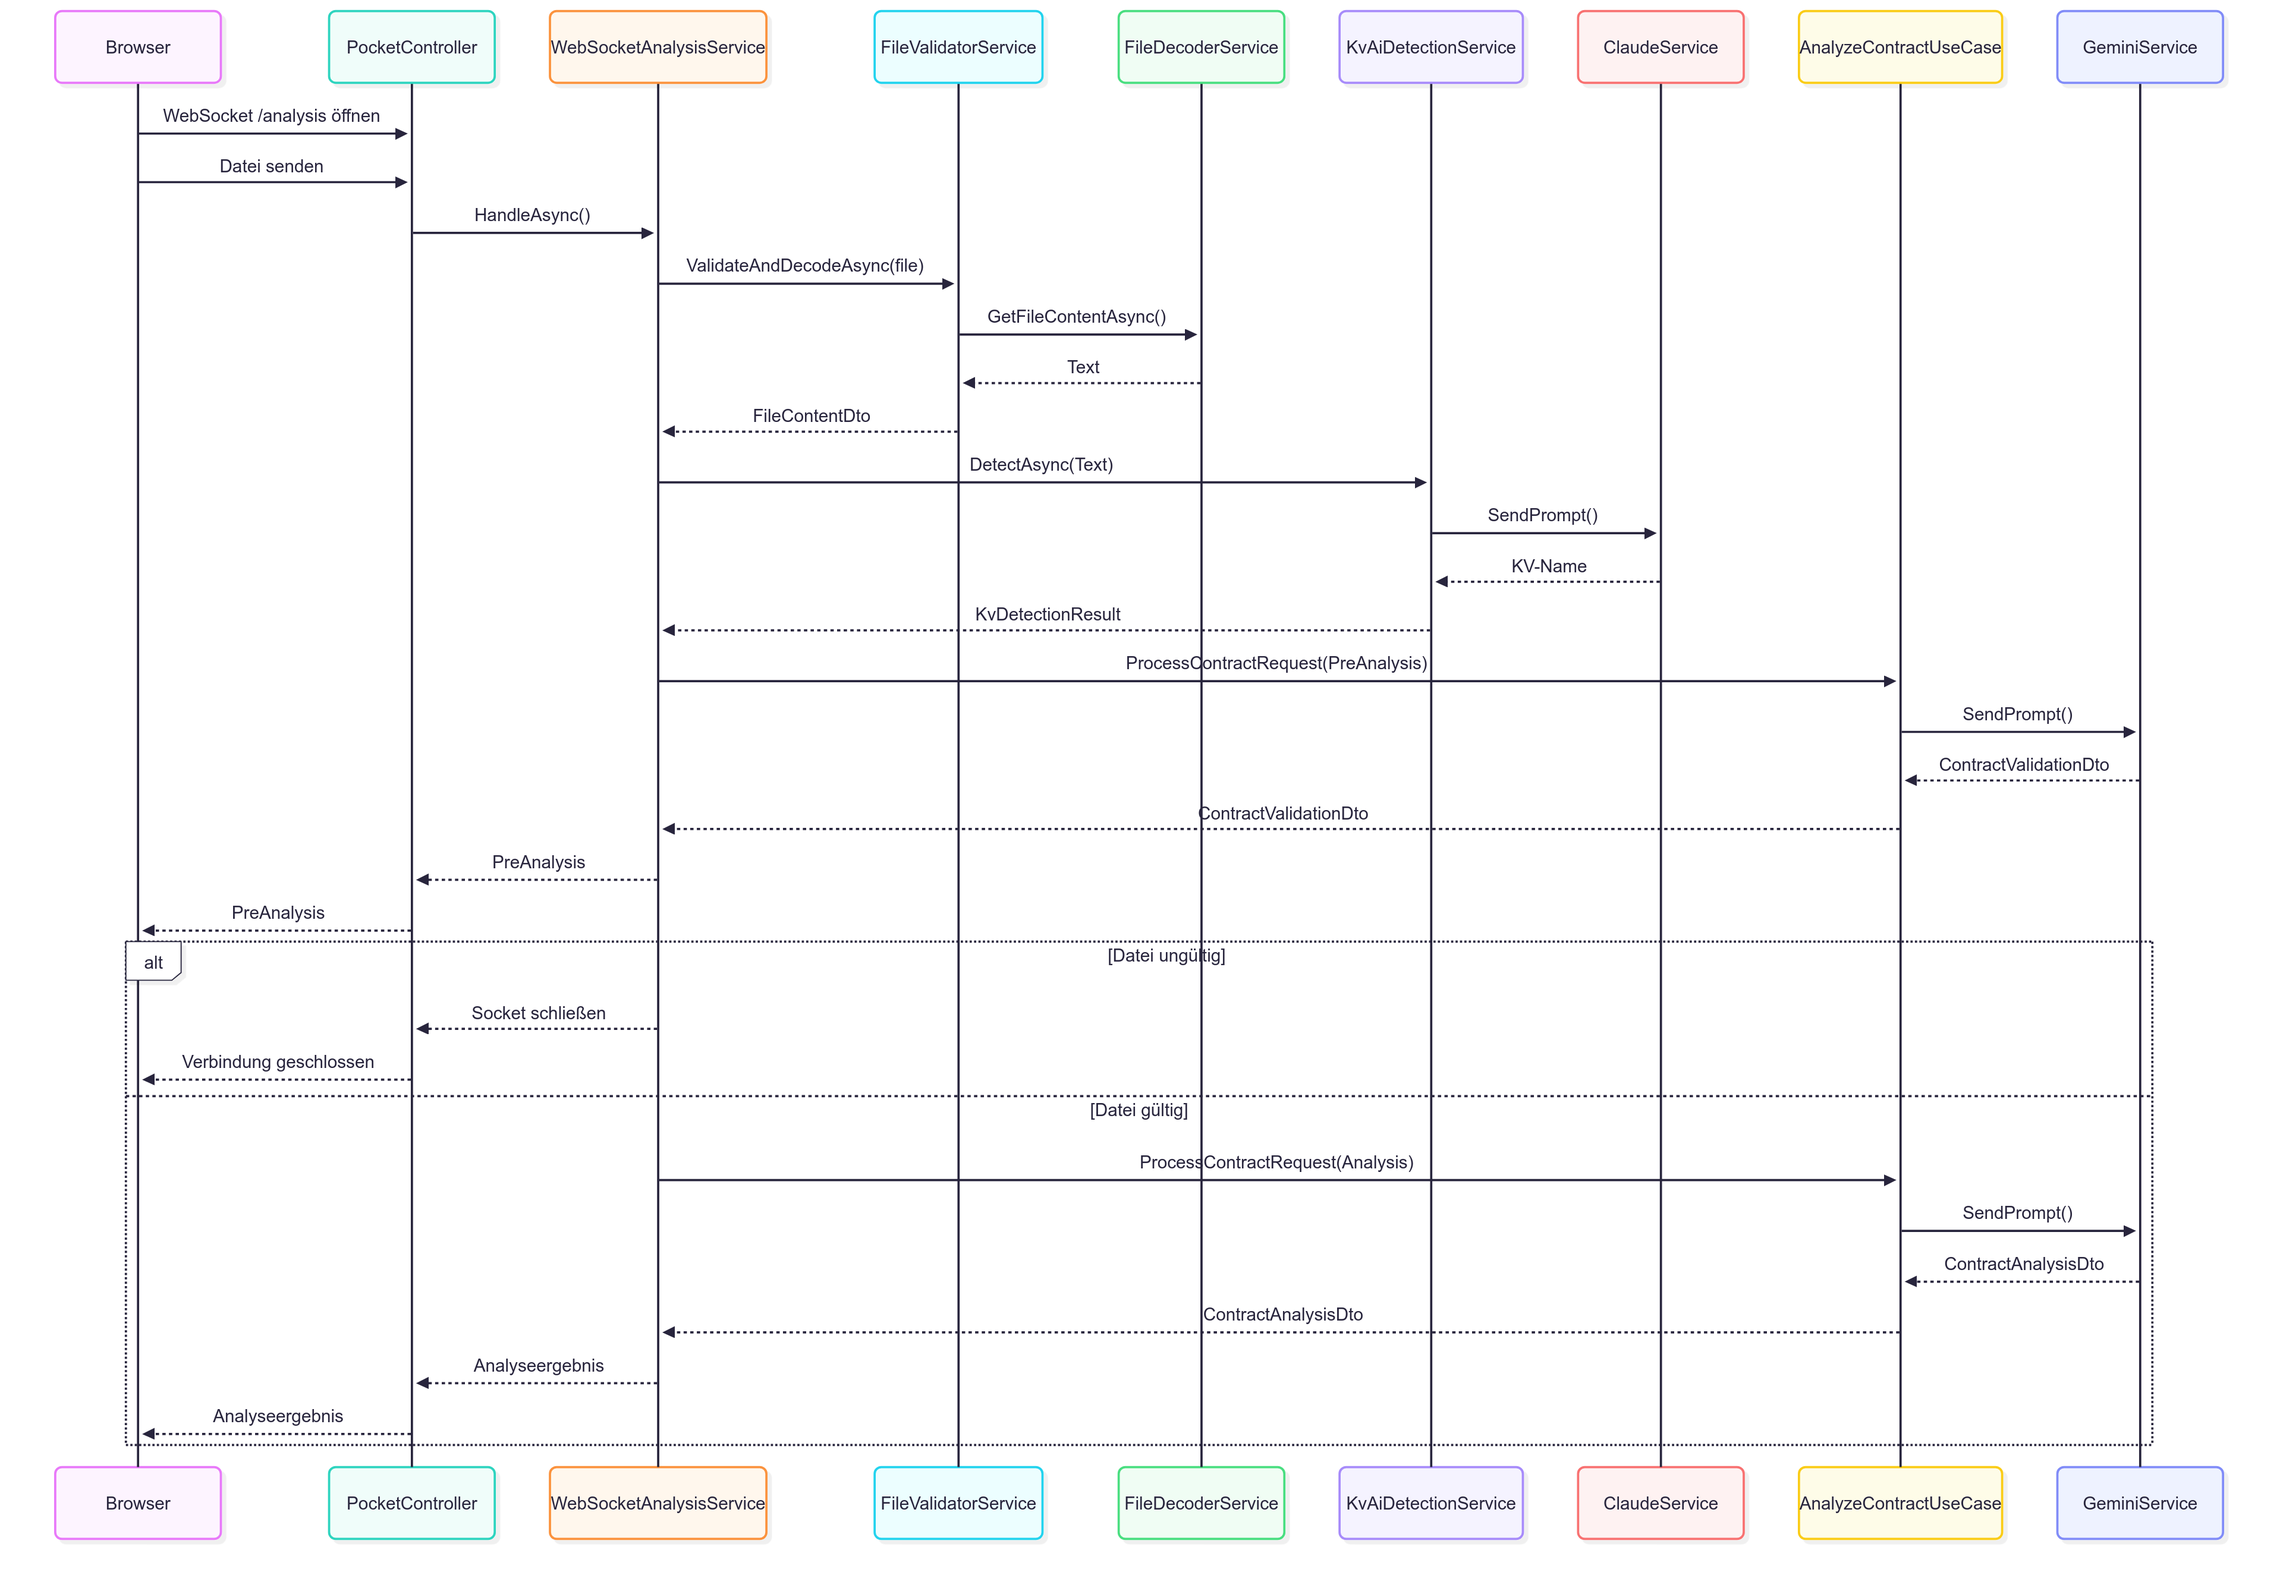
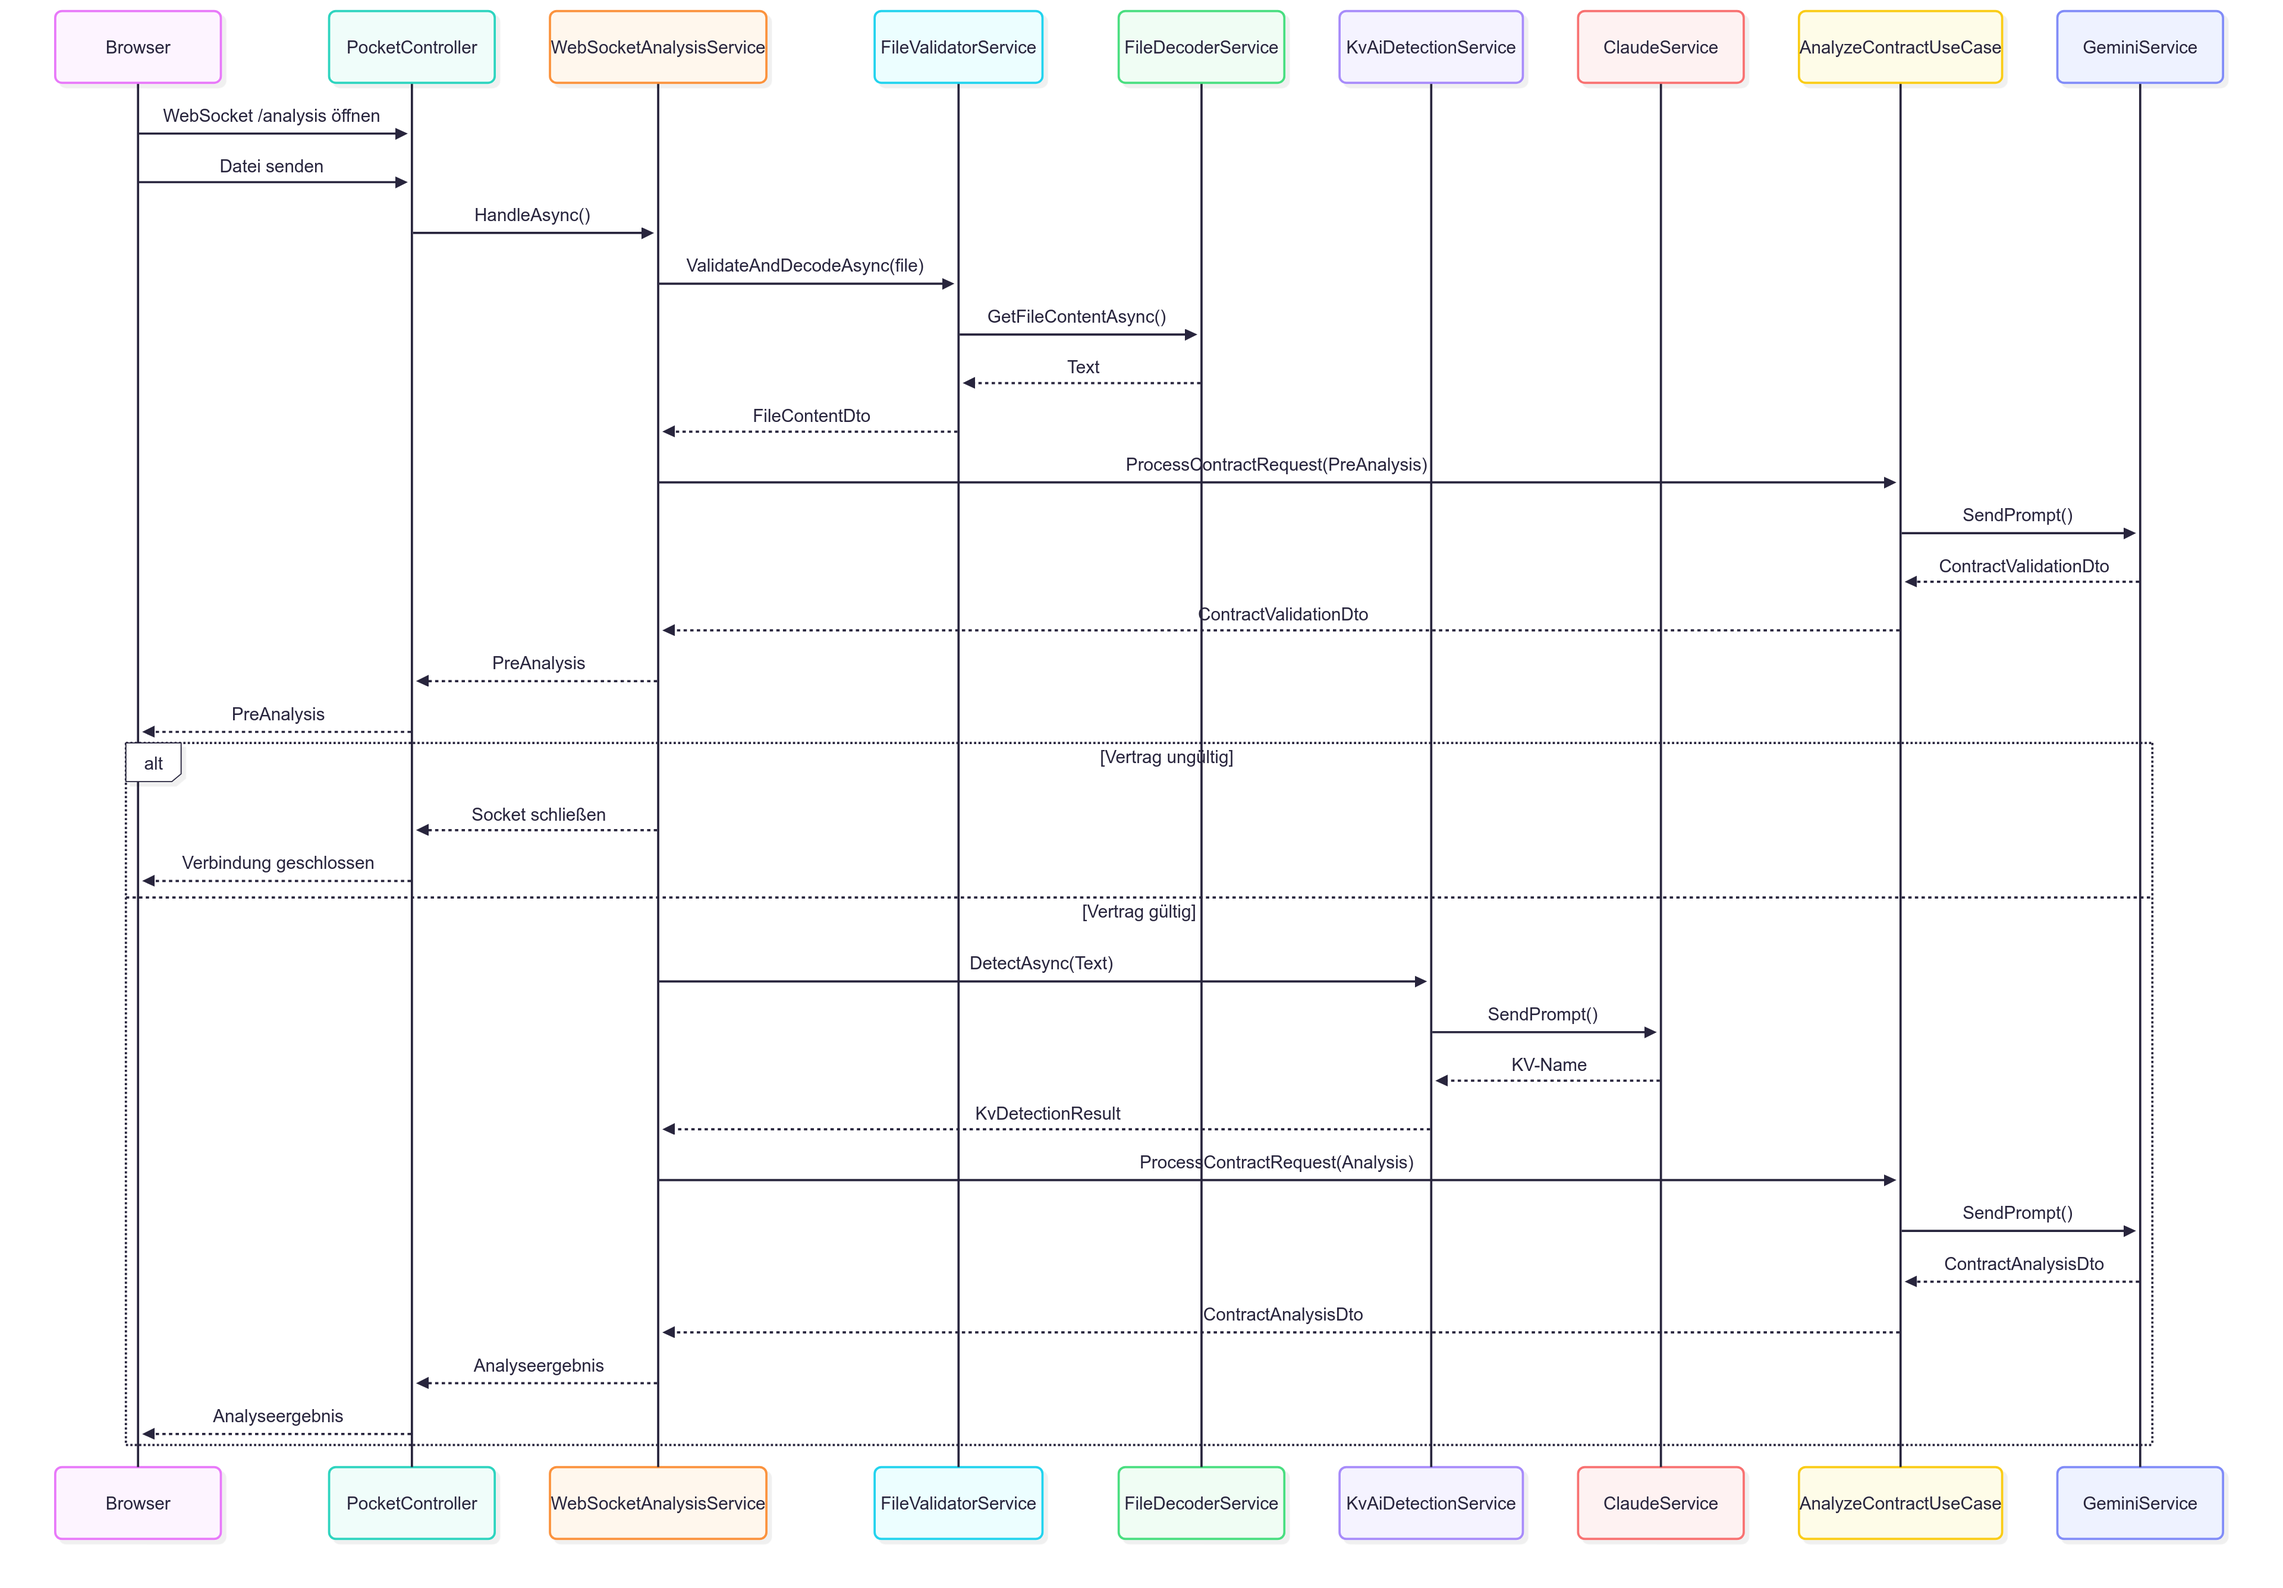
digarams

diff --git a/Infrastructure/WebSocketAnalysisService.cs b/Infrastructure/WebSocketAnalysisService.cs
@@ -37,7 +37,7 @@ public class WebSocketAnalysisService : IWebSocketAnalysisService
             var (bytes, name) = await ReceiveFileAsync(socket);
             IFormFile CreateFile() => new FormFile(new MemoryStream(bytes), 0, bytes.Length, "file", name);
             FileContentDto content = await _fileValidatorService.ValidateAndDecodeAsync(CreateFile());
-            ContractValidationDto validation = await ValidateContractAsync(content, null);
+            ContractValidationDto validation = await ValidateContractAsync(content);
             await WebSocketHelpers.SendStringAsync(socket, JsonSerializer.Serialize(validation), CancellationToken.None);
             if (!validation.IsReadable || !validation.IsContract)
             {
@@ -113,15 +113,14 @@ public class WebSocketAnalysisService : IWebSocketAnalysisService
         return null;
     }
 
-    private Task<ContractValidationDto> ValidateContractAsync(FileContentDto content, string? kvName)
+    private Task<ContractValidationDto> ValidateContractAsync(FileContentDto content)
     {
         return _analyzeContractUseCase.ProcessContractRequest<ContractValidationDto>(
             content,
             PromptBuilder.BuildValidationPrompt,
             GeminiService.PreAnalyzerSchemaDefinition,
             true,
-            false,
-            kvName);
+            false);
     }
 
     private Task<ContractAnalysisDto> AnalyzeContractAsync(FileContentDto content, string? kvName)
@@ -131,7 +130,7 @@ public class WebSocketAnalysisService : IWebSocketAnalysisService
             PromptBuilder.BuildAnalysisPrompt,
             GeminiService.AnalyzerSchemaDefinition,
             false,
-            string.IsNullOrWhiteSpace(kvName),
+            false,
             kvName);
     }
 

diff --git a/docs/Diagrams/diagrams.md b/docs/Diagrams/diagrams.md
@@ -409,12 +409,12 @@ graph TD
     N -- WebSocket --> PC[WebSocket /analysis]
     PC --> WSAS[WebSocketAnalysisService]
     WSAS --> FV[FileValidatorService]
-    FV --> FDS[FileDecoderService]
-    WSAS --> KD[KvAiDetectionService]
-    KD --> CLA[ClaudeService]
+    FV --> FDS[FileDecoderService]   
     WSAS --> CA[AnalyzeContractUseCase]
     CA --> GEM[GeminiService]
     CA --> KFS[KvFileService]
+    WSAS --> KD[KvAiDetectionService]
+    KD --> CLA[ClaudeService]
     GEM --> RL[ResponseLogger]
     GEM --> GCM[GeminiContextManager]
     RL --> Files[data/Responses/]
